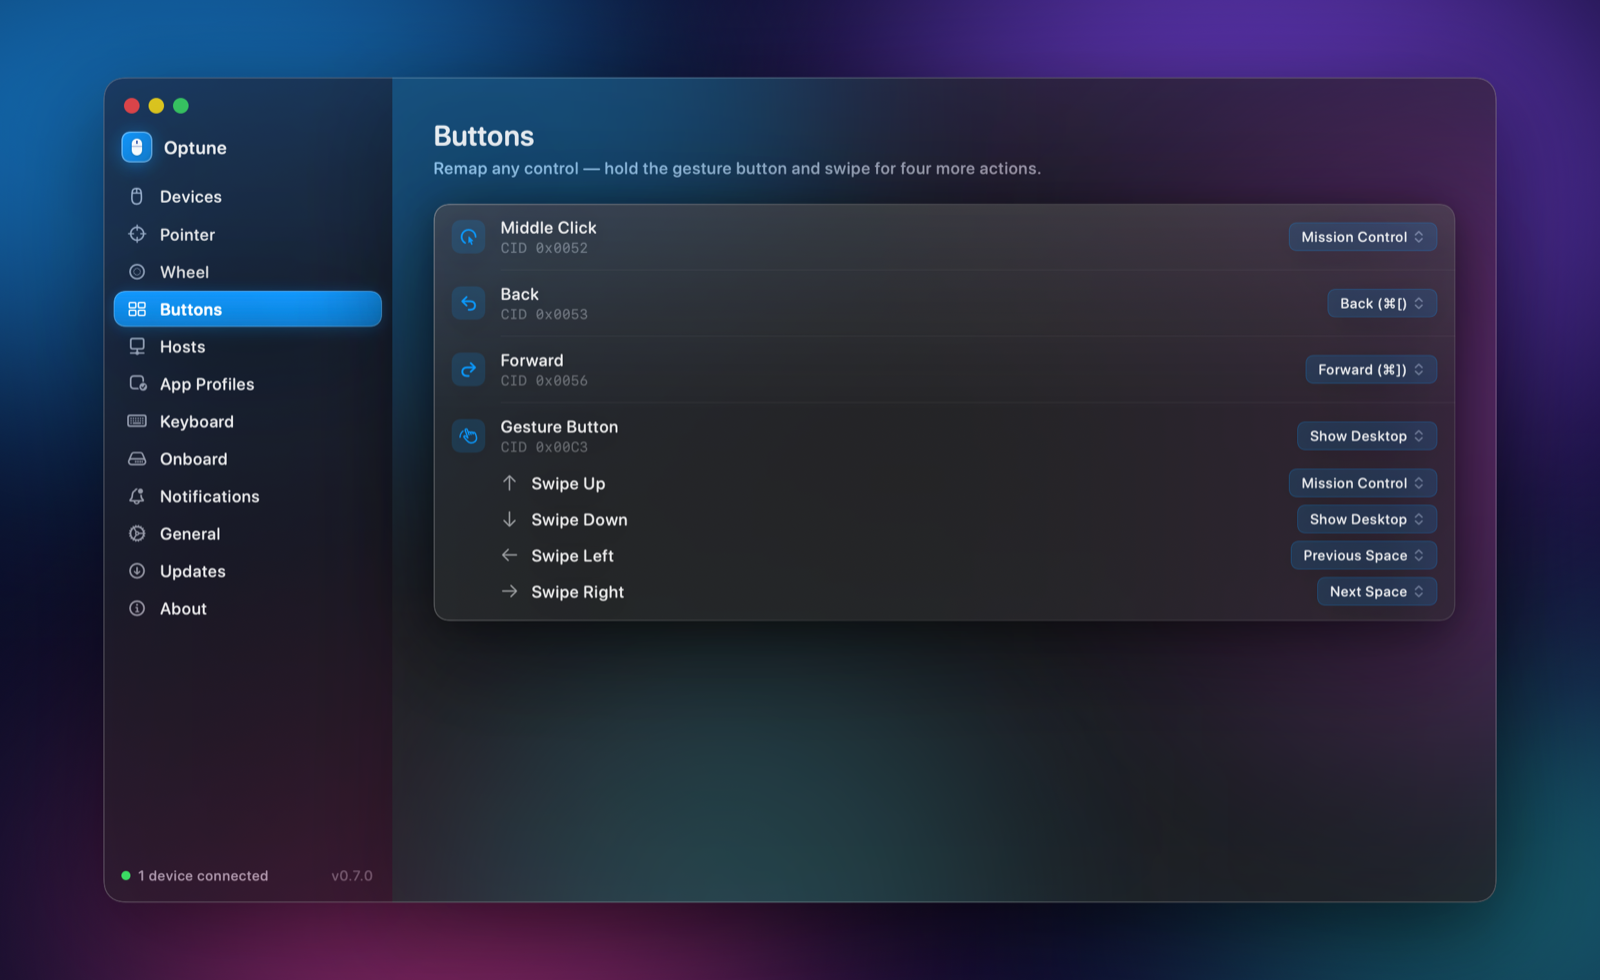
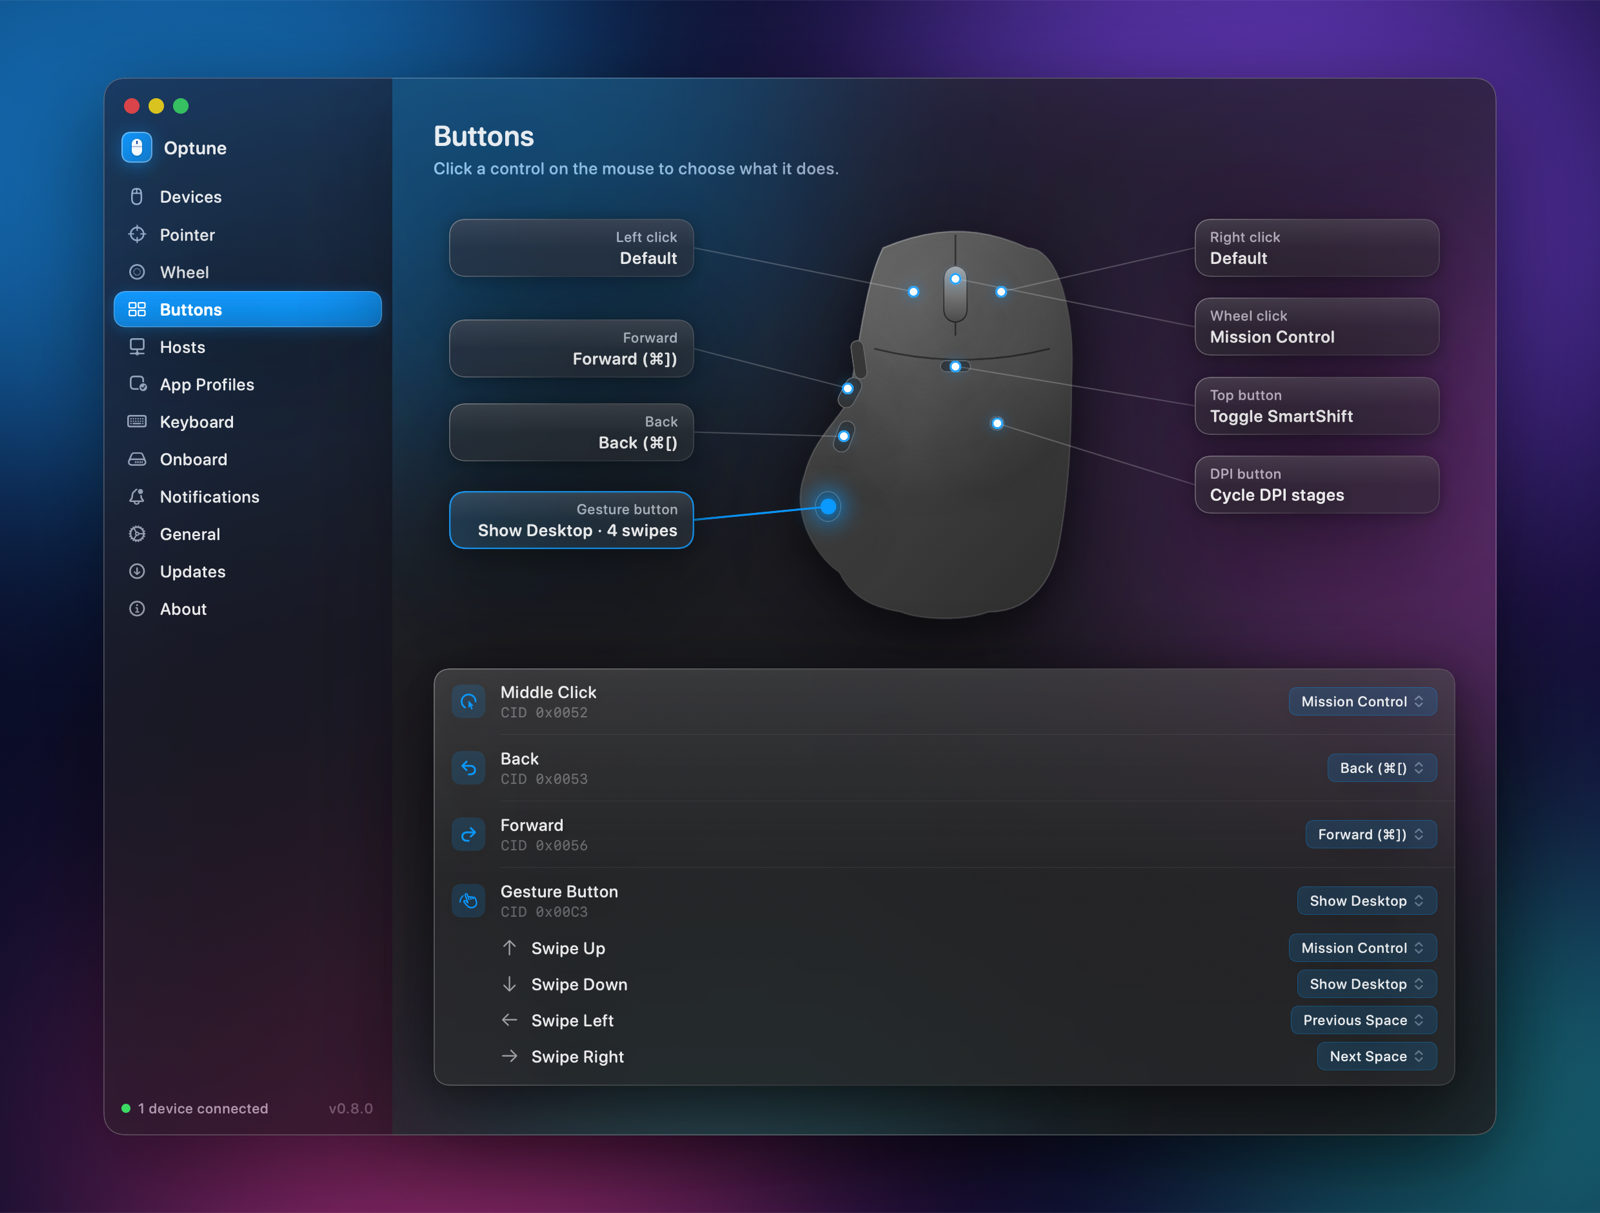
docs: buttons screenshots and copy for the visual button map

diff --git a/docs/site/landing/index.html b/docs/site/landing/index.html
@@ -147,7 +147,7 @@
       <div class="row"><h3>Battery</h3><p>Live level and charge state, 14 days of history, drain rate and a time-remaining estimate. Low-battery alert threshold is set per device.</p><code>0x1004</code></div>
       <div class="row"><h3>DPI</h3><p>Slider for the full range, plus up to six saved stages you can click in the menu bar, cycle from a button, or step through with ⌃⌥D.</p><code>0x2201</code></div>
       <div class="row"><h3>SmartShift</h3><p>Toggle and sensitivity for the ratchet/free-spin wheel, and the hi-res and thumb-wheel settings alongside it.</p><code>0x2111 · 0x2121 · 0x2150</code></div>
-      <div class="row"><h3>Buttons</h3><p>Rebind any reprogrammable control to a keystroke, media key, Mission Control, an app, or a shell command.</p><code>0x1B04</code></div>
+      <div class="row"><h3>Buttons</h3><p>Click a control on an illustrated mouse and rebind it to a keystroke, media key, Mission Control, an app, or a shell command.</p><code>0x1B04</code></div>
       <div class="row"><h3>Gestures</h3><p>Hold the gesture button and swipe up, down, left or right — four more actions, one per direction. A plain press still does its own thing.</p><code>0x1B04 raw XY</code></div>
       <div class="row"><h3>Profiles</h3><p>DPI and SmartShift follow whichever app is in front.</p><code>—</code></div>
       <div class="row"><h3>Hosts</h3><p>See paired Easy-Switch hosts and jump between them.</p><code>0x1814</code></div>
@@ -179,7 +179,7 @@
         </figure>
         <figure>
           <img src="img/buttons-dark.png" alt="Button remapping with four gesture swipe directions" loading="lazy">
-          <figcaption>Fig. 4 — Buttons, with gesture swipes.</figcaption>
+          <figcaption>Fig. 4 — Buttons: click a control on the mouse, choose its action.</figcaption>
         </figure>
       </div>
     </div>

diff --git a/README.md b/README.md
@@ -34,7 +34,7 @@ brew install --cask optune
 | 🔋 **Battery insights** | 14 days of history, drain rate, time-remaining estimate, charge count, and a per-device low-battery alert. |
 | 🎯 **DPI stages** | Save up to six DPI stages, switch from the menu bar in one click, or cycle with <kbd>⌃</kbd><kbd>⌥</kbd><kbd>D</kbd> from anywhere. |
 | 🖐 **Gesture button** | Hold the thumb button and swipe up, down, left or right — each direction runs its own action. |
-| 🧭 **Button remapping** | Rebind any reprogrammable control to keystrokes, media keys, mouse clicks, Mission Control, apps, or shell commands. |
+| 🧭 **Button remapping** | Click a control on an illustrated mouse and rebind it to keystrokes, media keys, mouse clicks, Mission Control, apps, or shell commands. |
 | 🪟 **Per-app profiles** | DPI, SmartShift and wheel settings follow the app you're using. |
 | 🔀 **Multi-host** | See paired hosts and switch Easy-Switch slots — or press <kbd>⌃</kbd><kbd>⌥</kbd><kbd>1–3</kbd>. |
 | ⚡ **Automation** | Opt-in `optune://` links for Shortcuts and scripts, a polling-rate picker, and automatic settings backup. |
@@ -58,7 +58,7 @@ brew install --cask optune
   </tr>
   <tr>
     <td align="center"><sub><b>Battery</b> — trend, drain rate and time remaining</sub></td>
-    <td align="center"><sub><b>Buttons</b> — remaps and gesture swipes</sub></td>
+    <td align="center"><sub><b>Buttons</b> — click a control on the mouse, pick its action</sub></td>
   </tr>
 </table>
 

diff --git a/CHANGELOG.md b/CHANGELOG.md
@@ -5,6 +5,12 @@ Format follows [Keep a Changelog](https://keepachangelog.com/en/1.1.0/), version
 
 ## [Unreleased]
 
+### Added — Visual button map
+- The Buttons pane now shows an **illustrated mouse with a callout on each control**. Click a callout (or its dot)
+  to see what it does and change it in place, including the gesture swipes. The full list remains below.
+- The drawing is original, generic artwork — no manufacturer photos or trade dress. It is not your exact model,
+  and only controls your device actually reports are shown.
+
 ## [0.8.0] — 2026-10-06
 
 ### Added — Automation & setup
